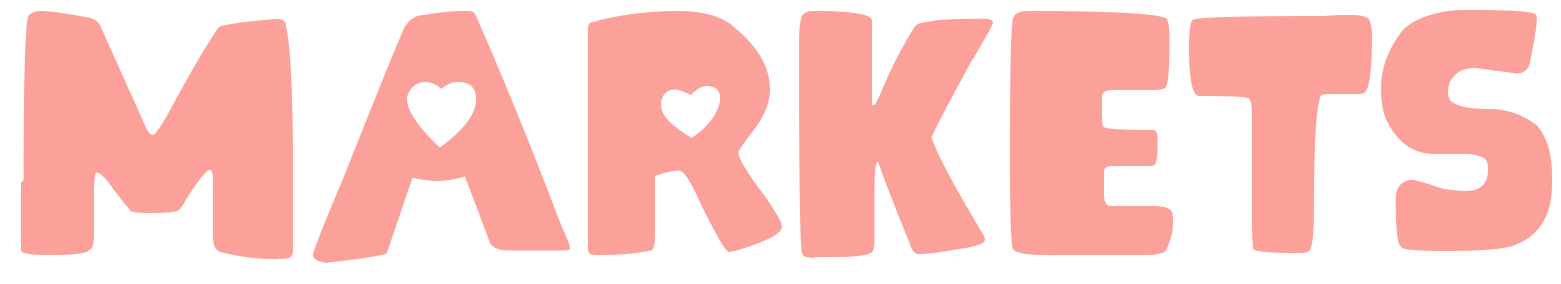
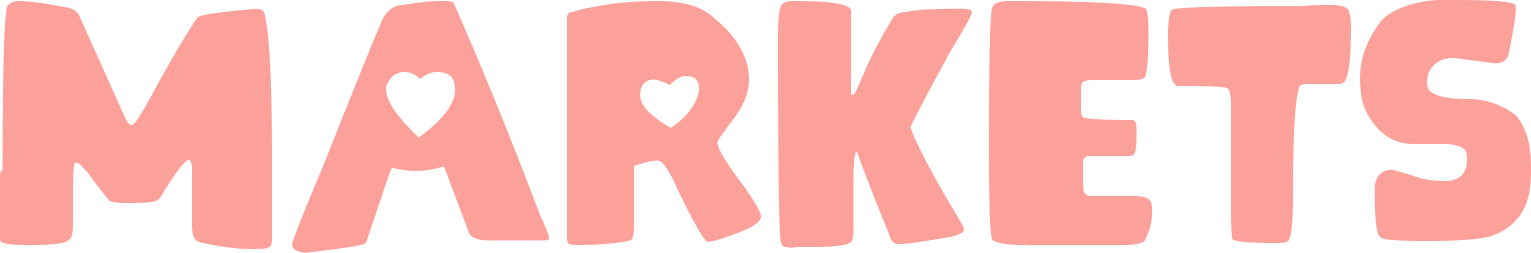
Started styling CSS FUN TIMES YAY;

diff --git a/app/assets/stylesheets/application.css b/app/assets/stylesheets/application.css
@@ -13,3 +13,44 @@
  *= require_tree .
  *= require_self
  */
+
+/** General **/
+
+* {
+  box-sizing: border-box;
+}
+
+html {
+  font-size: 16px;
+}
+
+body {
+  background-color: #FAF9F9;
+  margin: 0;
+  padding: 0;
+}
+
+/** Long Lists **/
+
+div.page-title {
+  width: 100%;
+  /*height: 9rem;*/
+  padding: .5rem;
+  background-color: #F9F7F1;
+  border-bottom: 1rem solid #F59999;
+  box-shadow: 0 .2rem #DF7979;
+}
+
+.page-title img {
+  display: block;
+  width: 50%;
+  margin: .5rem auto;
+}
+
+div.list {
+  width: 90%;
+  max-height: 34rem;
+  margin: 3rem auto;
+  background-color: #F59999;
+  overflow: scroll;
+}
